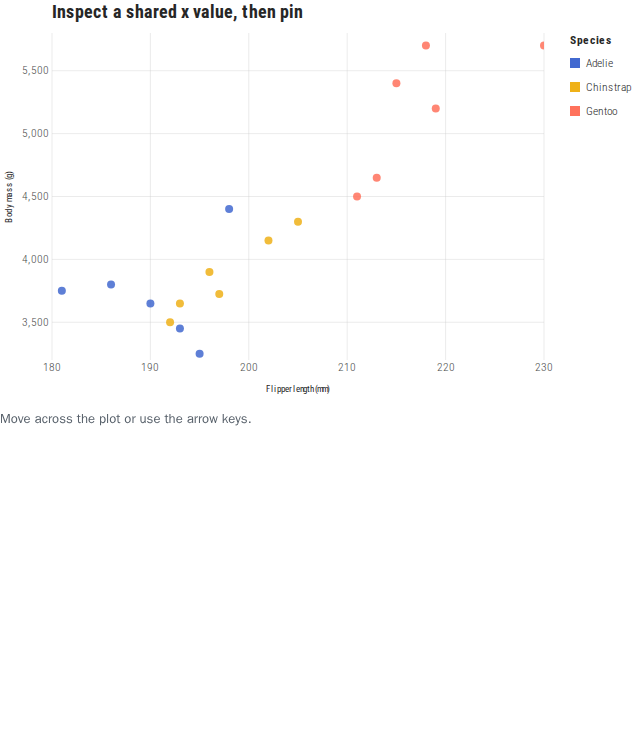
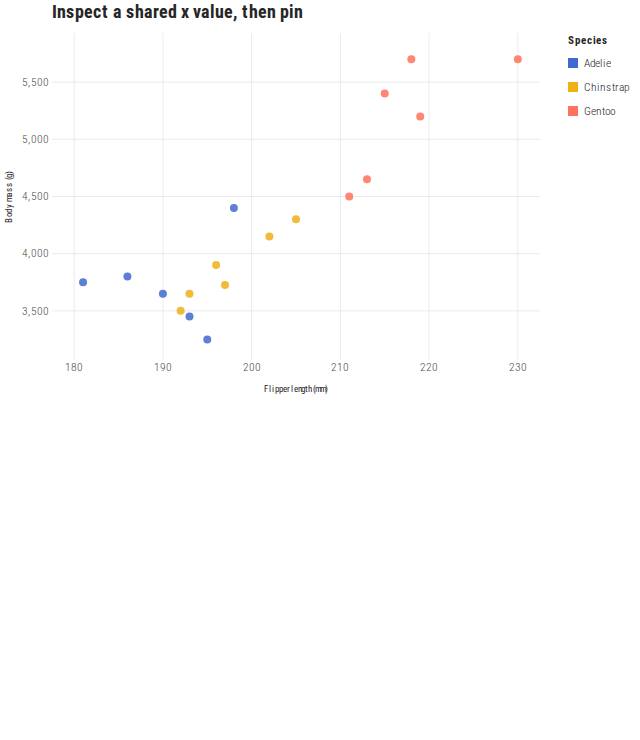
fix(#668): regenerate interaction gallery lights without demo chrome
Recapture the six interaction *-light.png previews under ?vr so status,
notes, and external controls no longer pollute gallery thumbs. Tighten
legend-focus VR frame to 960×320 for the three-up layout (#652).

diff --git a/scripts/capture-interaction-gallery-lights.ts b/scripts/capture-interaction-gallery-lights.ts
@@ -1,0 +1,85 @@
+/**
+ * Capture idle ?vr light gallery lights for interaction examples into
+ * apps/docs/static/previews/. Intended to run inside the pinned Playwright
+ * container against a built docs site (see package.json / CONTRIBUTING).
+ *
+ * Usage (after bun run build && bun run build:docs):
+ *   bun scripts/serve-docs.ts &
+ *   bun scripts/capture-interaction-gallery-lights.ts
+ *   bun run gallery:previews:gen
+ */
+import { chromium, type Page } from "@playwright/test";
+import { mkdirSync } from "node:fs";
+import { join, resolve } from "node:path";
+
+import { EXAMPLES } from "../examples/manifest.js";
+
+const ROOT = resolve(import.meta.dir, "..");
+const OUT = join(ROOT, "apps", "docs", "static", "previews");
+const BASE = process.env["GALLERY_CAPTURE_BASE"] ?? "http://127.0.0.1:4173";
+
+const INTERACTION = EXAMPLES.filter((entry) => entry.id.startsWith("interaction/"));
+
+async function settle(page: Page, expectedPlots: number): Promise<void> {
+  await page.emulateMedia({ colorScheme: "light", reducedMotion: "reduce" });
+  await page.evaluate(async () => {
+    document.documentElement.dataset.visualTest = "";
+    await document.fonts.ready;
+    await new Promise<void>((resolveFrame) => {
+      requestAnimationFrame(() => {
+        requestAnimationFrame(() => {
+          resolveFrame();
+        });
+      });
+    });
+  });
+  await page.locator('.gg-plot-root[data-gg-ready="true"]').first().waitFor();
+  const count = await page.locator('.gg-plot-root[data-gg-ready="true"]').count();
+  if (count < expectedPlots) {
+    await page
+      .locator('.gg-plot-root[data-gg-ready="true"]')
+      .nth(expectedPlots - 1)
+      .waitFor();
+  }
+}
+
+async function main(): Promise<void> {
+  mkdirSync(OUT, { recursive: true });
+  const browser = await chromium.launch();
+  try {
+    for (const entry of INTERACTION) {
+      const width = entry.vrWidth ?? 640;
+      const height = entry.vrHeight ?? 400;
+      const plots =
+        entry.id === "interaction/legend-focus"
+          ? 3
+          : entry.id === "interaction/linked-views"
+            ? 2
+            : 1;
+      const context = await browser.newContext({
+        viewport: { width: Math.max(width + 40, 800), height: Math.max(height + 40, 640) },
+        deviceScaleFactor: 1,
+        colorScheme: "light",
+        reducedMotion: "reduce",
+        locale: "en-US",
+        timezoneId: "UTC",
+      });
+      const page = await context.newPage();
+      const url = `${BASE}/examples/${entry.id}?vr&theme=light`;
+      await page.goto(url, { waitUntil: "networkidle" });
+      await page.locator("html").getAttribute("data-vr");
+      await settle(page, plots);
+      const frame = page.locator(".gg-example-frame");
+      await frame.waitFor({ state: "visible" });
+      const filename = `${entry.id.replaceAll("/", "-")}-light.png`;
+      const path = join(OUT, filename);
+      await frame.screenshot({ path, animations: "disabled", caret: "hide" });
+      console.log(`wrote ${filename} (${String(width)}x${String(height)}, ${String(plots)} plots)`);
+      await context.close();
+    }
+  } finally {
+    await browser.close();
+  }
+}
+
+await main();

diff --git a/scripts/interaction-gallery-lights.test.ts b/scripts/interaction-gallery-lights.test.ts
@@ -1,0 +1,42 @@
+import { existsSync, readFileSync } from "node:fs";
+import { join } from "node:path";
+
+import { describe, expect, it } from "bun:test";
+
+import { EXAMPLES } from "../examples/manifest.js";
+import { canonicalPreviewFilename } from "./gen-gallery-previews.js";
+
+const ROOT = join(import.meta.dir, "..");
+const PREVIEWS = join(ROOT, "apps", "docs", "static", "previews");
+
+/** Minimal PNG IHDR width/height reader (big-endian). */
+function pngSize(path: string): { width: number; height: number } {
+  const buf = readFileSync(path);
+  if (buf.toString("ascii", 1, 4) !== "PNG") throw new Error(`not a PNG: ${path}`);
+  return {
+    width: buf.readUInt32BE(16),
+    height: buf.readUInt32BE(20),
+  };
+}
+
+describe("interaction gallery lights match VR frame geometry (#652/#668)", () => {
+  const interaction = EXAMPLES.filter((entry) => entry.id.startsWith("interaction/"));
+
+  it("covers every interaction example", () => {
+    expect(interaction.length).toBeGreaterThanOrEqual(6);
+  });
+
+  for (const entry of interaction) {
+    const filename = canonicalPreviewFilename(entry.id);
+    const path = join(PREVIEWS, filename);
+    const expectedWidth = entry.vrWidth ?? 640;
+    const expectedHeight = entry.vrHeight ?? 400;
+
+    it(`${filename} exists at ${String(expectedWidth)}×${String(expectedHeight)}`, () => {
+      expect(existsSync(path)).toBe(true);
+      const { width, height } = pngSize(path);
+      expect(width).toBe(expectedWidth);
+      expect(height).toBe(expectedHeight);
+    });
+  }
+});

diff --git a/tests/visual/docs-home-gallery.spec.ts b/tests/visual/docs-home-gallery.spec.ts
@@ -140,16 +140,17 @@ test("detail is specimen-first and always orders Svelte, builder, then JSON", as
   await expect(page.locator(".related li")).toHaveCount(3);
 });
 
-for (const [path, height] of [
-  ["point/scatter-color", 400],
-  ["interaction/linked-views", 1140],
+for (const [path, width, height] of [
+  ["point/scatter-color", 640, 400],
+  ["interaction/linked-views", 640, 1140],
+  ["interaction/legend-focus", 960, 320],
 ] as const) {
   test(`VR detail isolates ${path} at canonical geometry`, async ({ page }) => {
     await page.goto(`/examples/${path}?vr&theme=light`);
     await expect(page.locator(".example-prose:visible")).toHaveCount(0);
     const frame = page.locator(".gg-example-frame");
     await expect(frame).toBeVisible();
-    await expect(frame).toHaveCSS("width", "640px");
+    await expect(frame).toHaveCSS("width", `${String(width)}px`);
     await expect(frame).toHaveCSS("height", `${String(height)}px`);
   });
 }

diff --git a/examples/manifest.ts b/examples/manifest.ts
@@ -306,7 +306,7 @@ export const EXAMPLES: readonly ExampleManifestEntry[] = [
     description: "Opt-in legend controls preview locally, commit stable row keys to a shared controller, and de-emphasize unrelated marks without changing scales, statistics, layout, or color identity. The same semantic mask drives SVG and canvas views.",
     tags: ["interaction", "legend", "focus", "controller", "linked-views", "canvas", "keyboard", "touch"],
     docsSection: "Interaction",
-    vrHeight: 980,
+    vrHeight: 320,
     vrWidth: 960,
     journey: {
       pointer: "Hover a discrete legend entry to preview one plot, then click to pin the group across all three views.",
